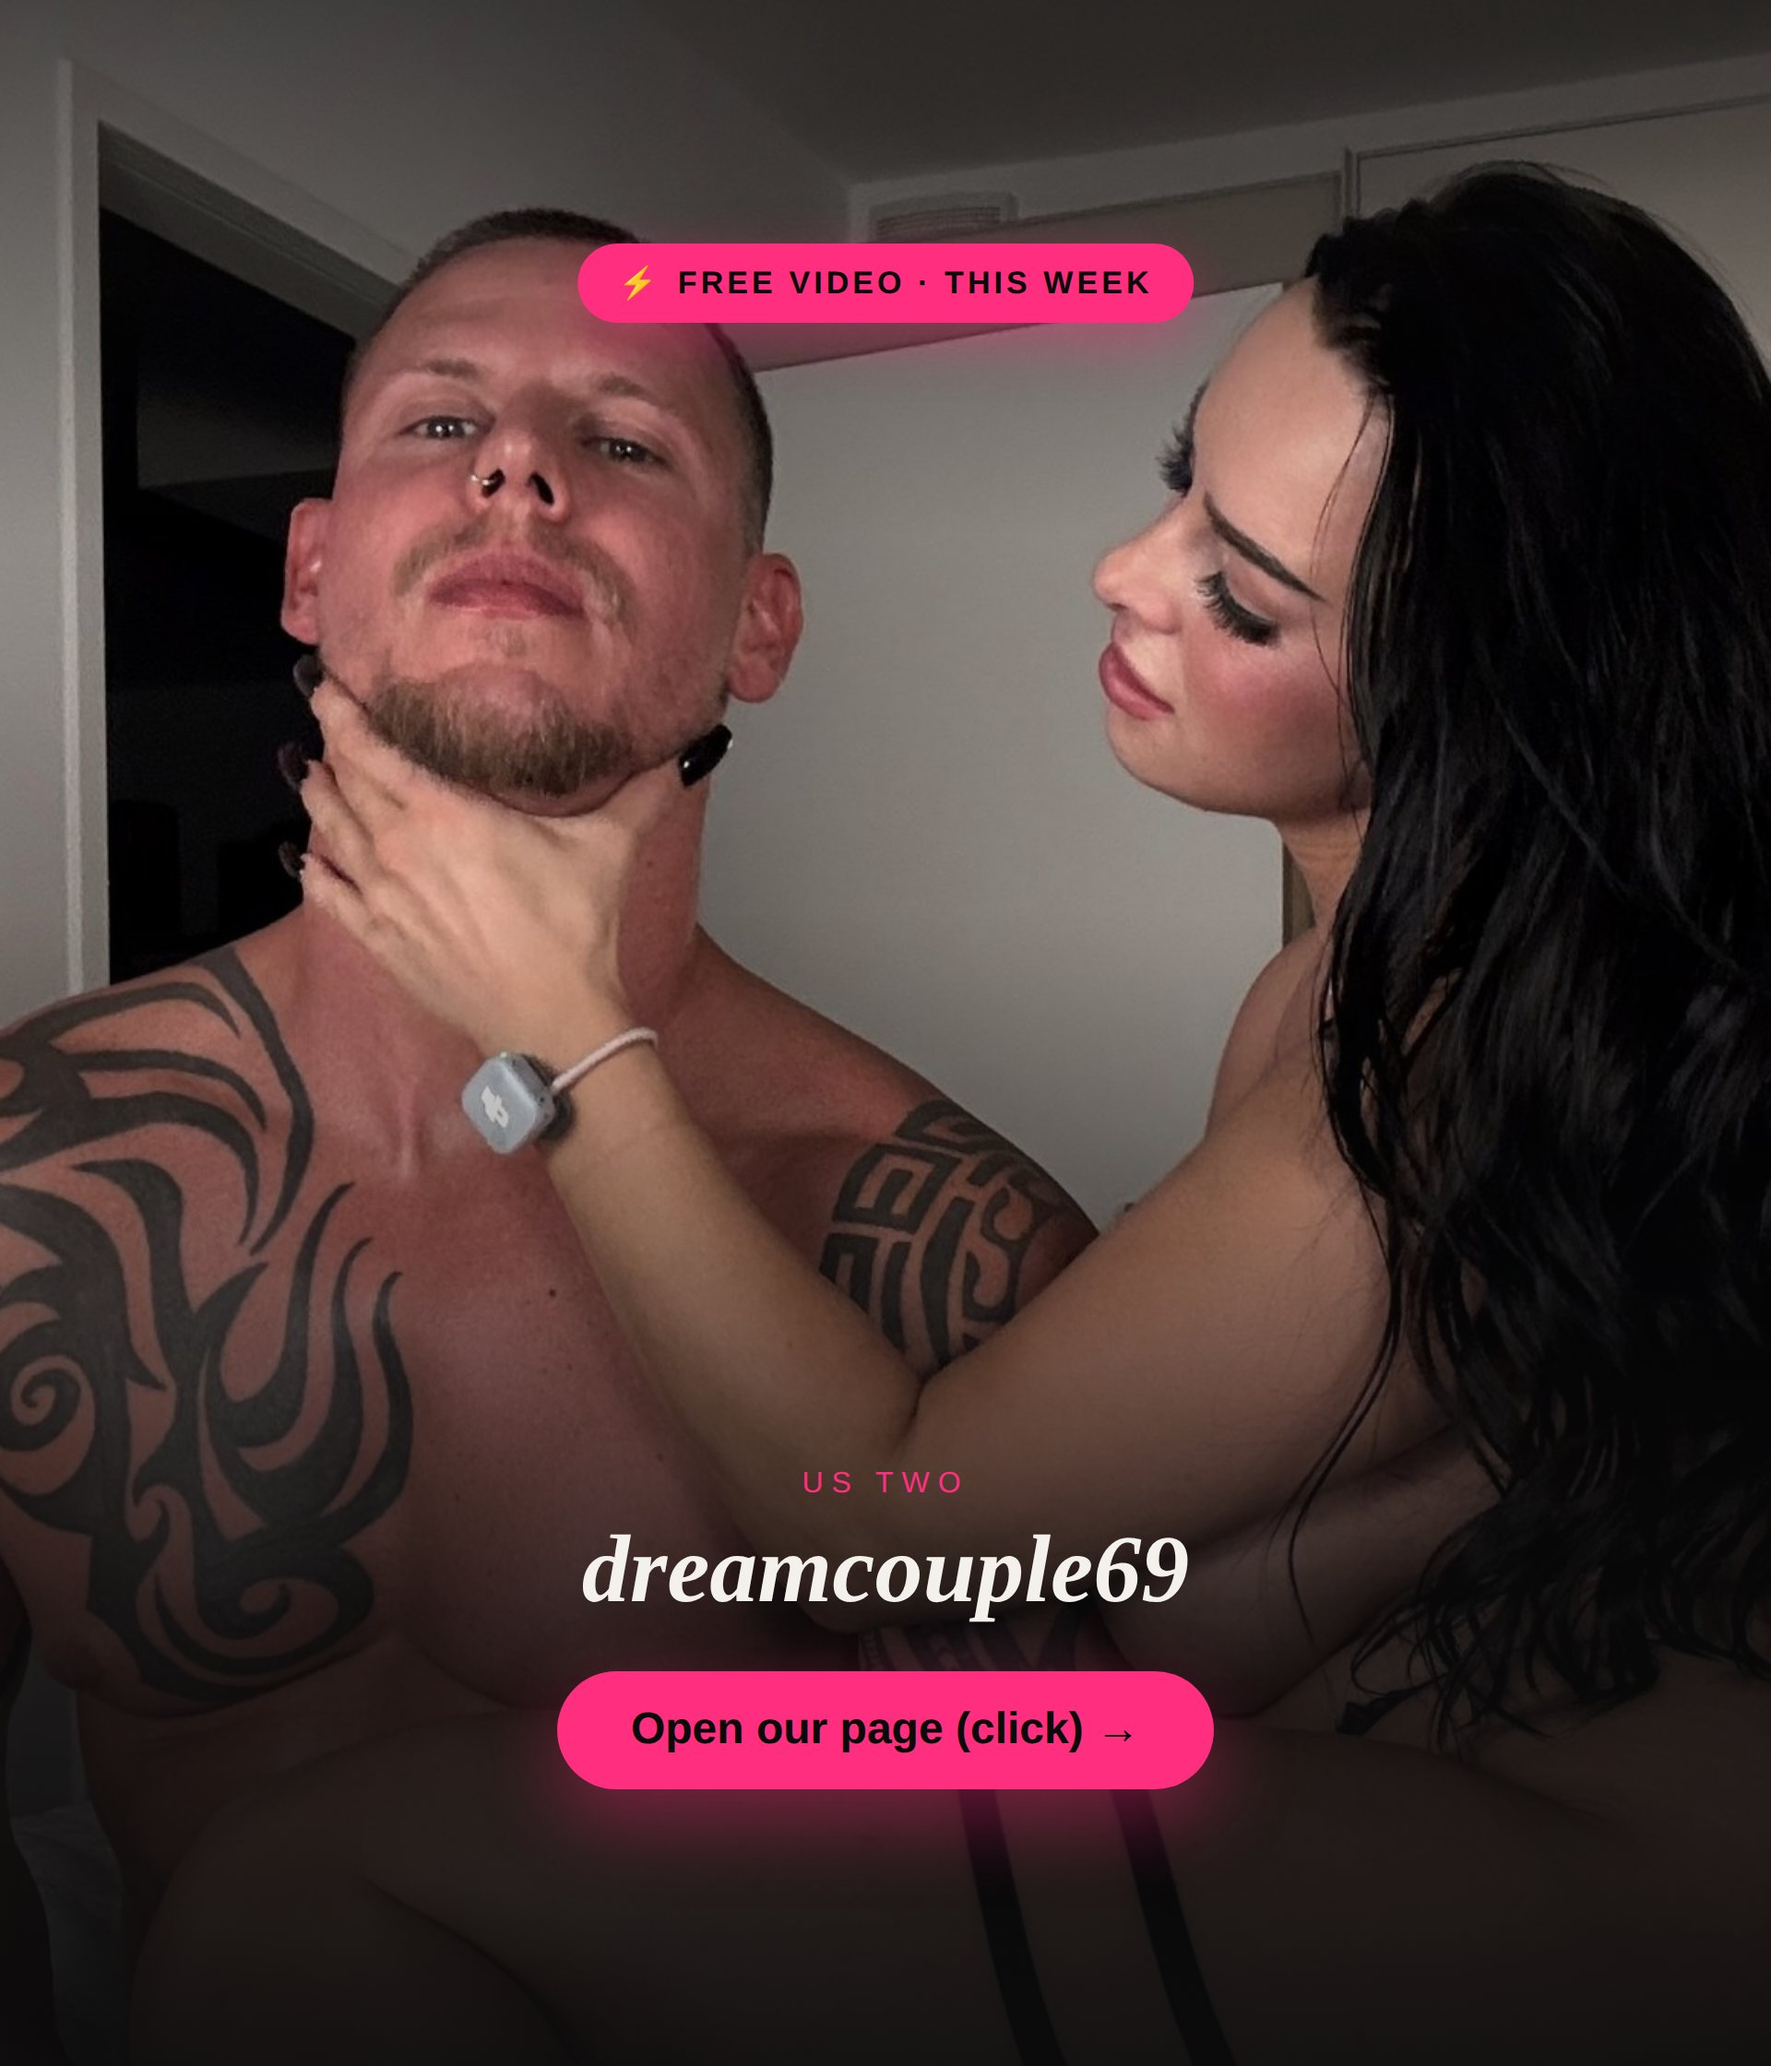
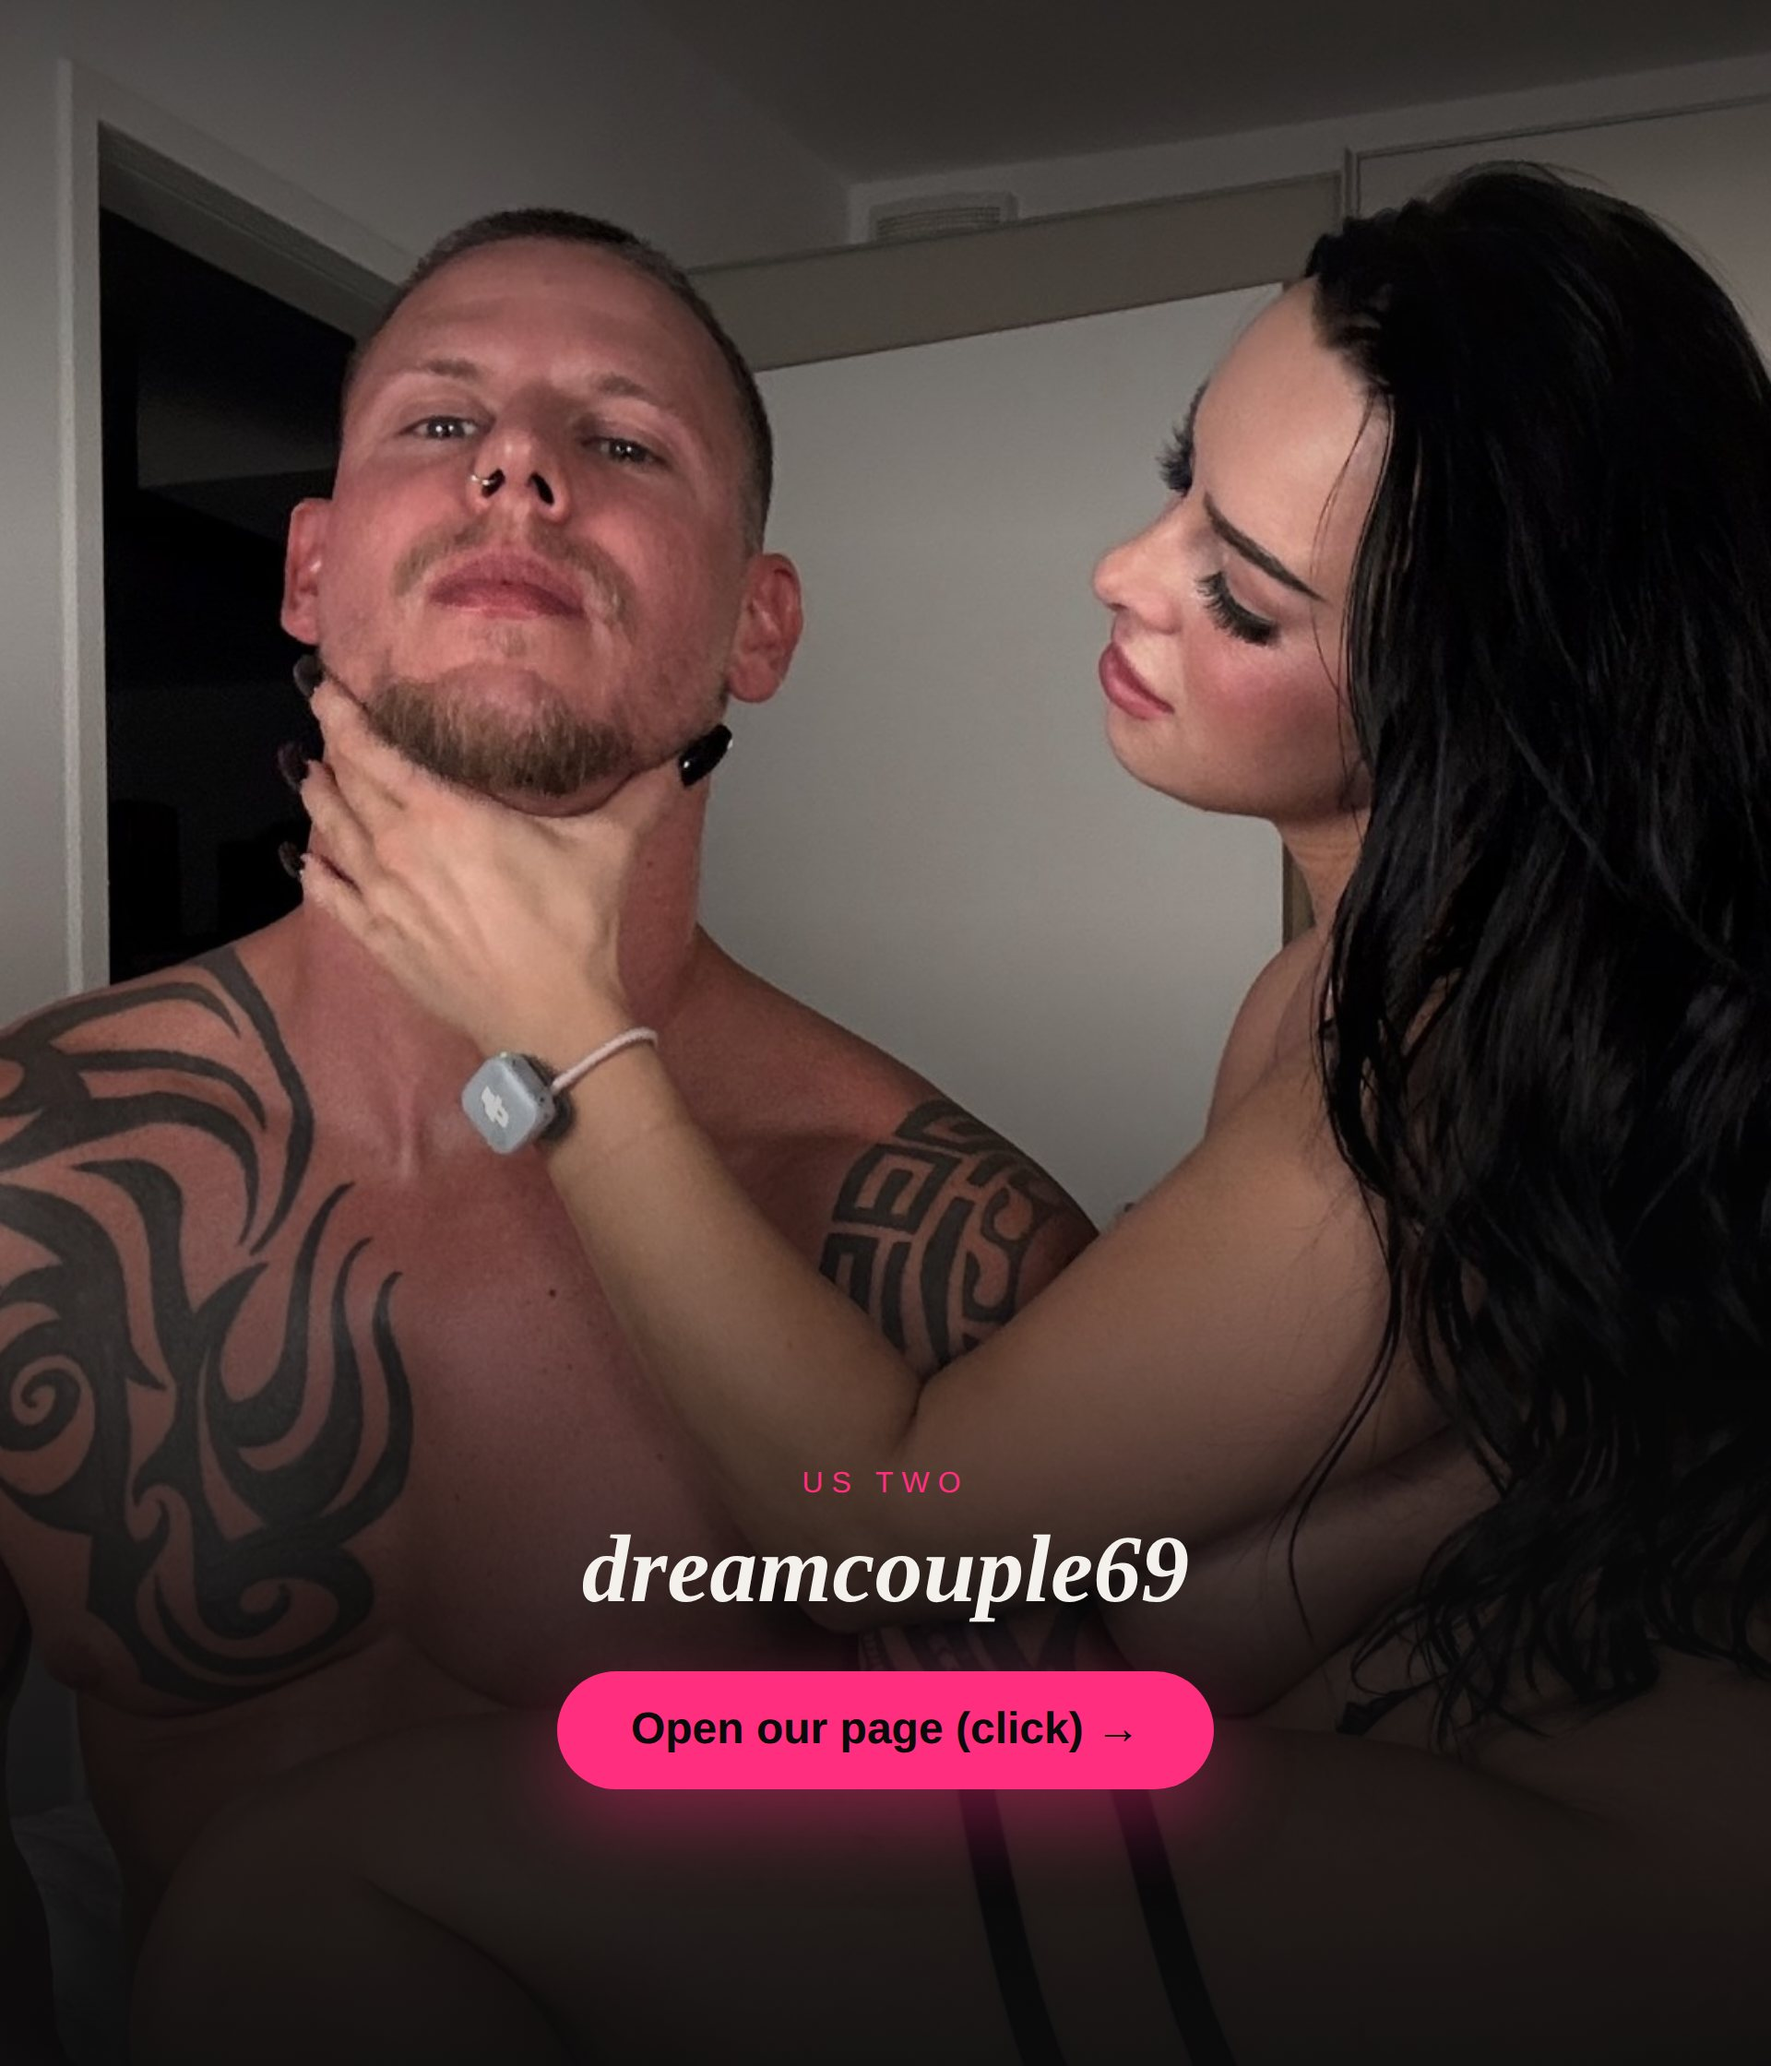
Drop free-video badge from Fansly halves; make Proof block black
Claude-Session: https://claude.ai/code/session_01RtbiUYFNdswaq59EqqYNLn

Changed region(s): [[0.3125, 0.0938, 0.6875, 0.1875]]

diff --git a/fg-proof.html b/fg-proof.html
@@ -3,7 +3,7 @@
 <link rel="preconnect" href="https://fonts.googleapis.com"><link rel="preconnect" href="https://fonts.gstatic.com" crossorigin>
 <link href="https://fonts.googleapis.com/css2?family=Fraunces:ital,opsz,wght@1,9..144,500;1,9..144,600&family=Inter:wght@300;400;500;600&display=swap" rel="stylesheet">
 <style>
-  :root{--cream:#F5F1E9;--ink:#141210;--soft:#5c574f;--hot:#E11466;--line:rgba(20,18,16,.14);}
+  :root{--cream:#0A0A0B;--ink:#F4F1EC;--soft:#a49ea6;--hot:#FF2E7E;--line:rgba(244,241,236,.12);}
   *{box-sizing:border-box;margin:0;padding:0;}
   .bar{width:1920px;height:1120px;background:var(--cream);font-family:'Inter',sans-serif;color:var(--ink);
     display:flex;align-items:center;gap:110px;padding:0 300px;}

diff --git a/fg-fansly-couple.html b/fg-fansly-couple.html
@@ -20,7 +20,6 @@
 <div id="h">
   <div class="ph"></div>
   <div class="scrim"></div>
-  <div class="badge"><span>&#9889;</span>Free video · this week</div>
   <div class="cap">
     <div class="ey">Us two</div>
     <div class="hn">dreamcouple69</div>

diff --git a/fg-fansly-solo.html b/fg-fansly-solo.html
@@ -20,7 +20,6 @@
 <div id="h">
   <div class="ph"></div>
   <div class="scrim"></div>
-  <div class="badge"><span>&#9889;</span>Free video · this week</div>
   <div class="cap">
     <div class="ey">Just me</div>
     <div class="hn">badbunnyyy77</div>
